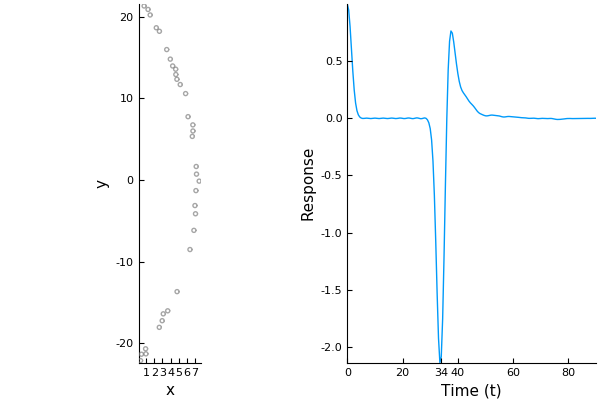
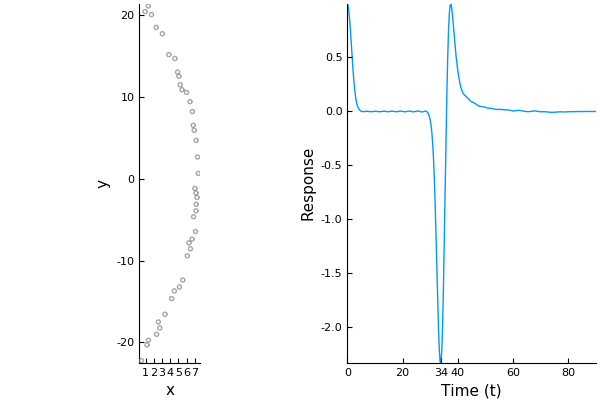
adjusting lens example

diff --git a/example/lens/README.md b/example/lens/README.md
@@ -7,3 +7,5 @@ include("lens.jl")
 plot_lens()
 ```
 ![Plot lens shape and response in time](plot_lens.png)
+
+The distance of the lens is chosen so that the peak signal should arrive around time 34. Note, as we use a random seed to position the particles, the above figure many vary slightly.
